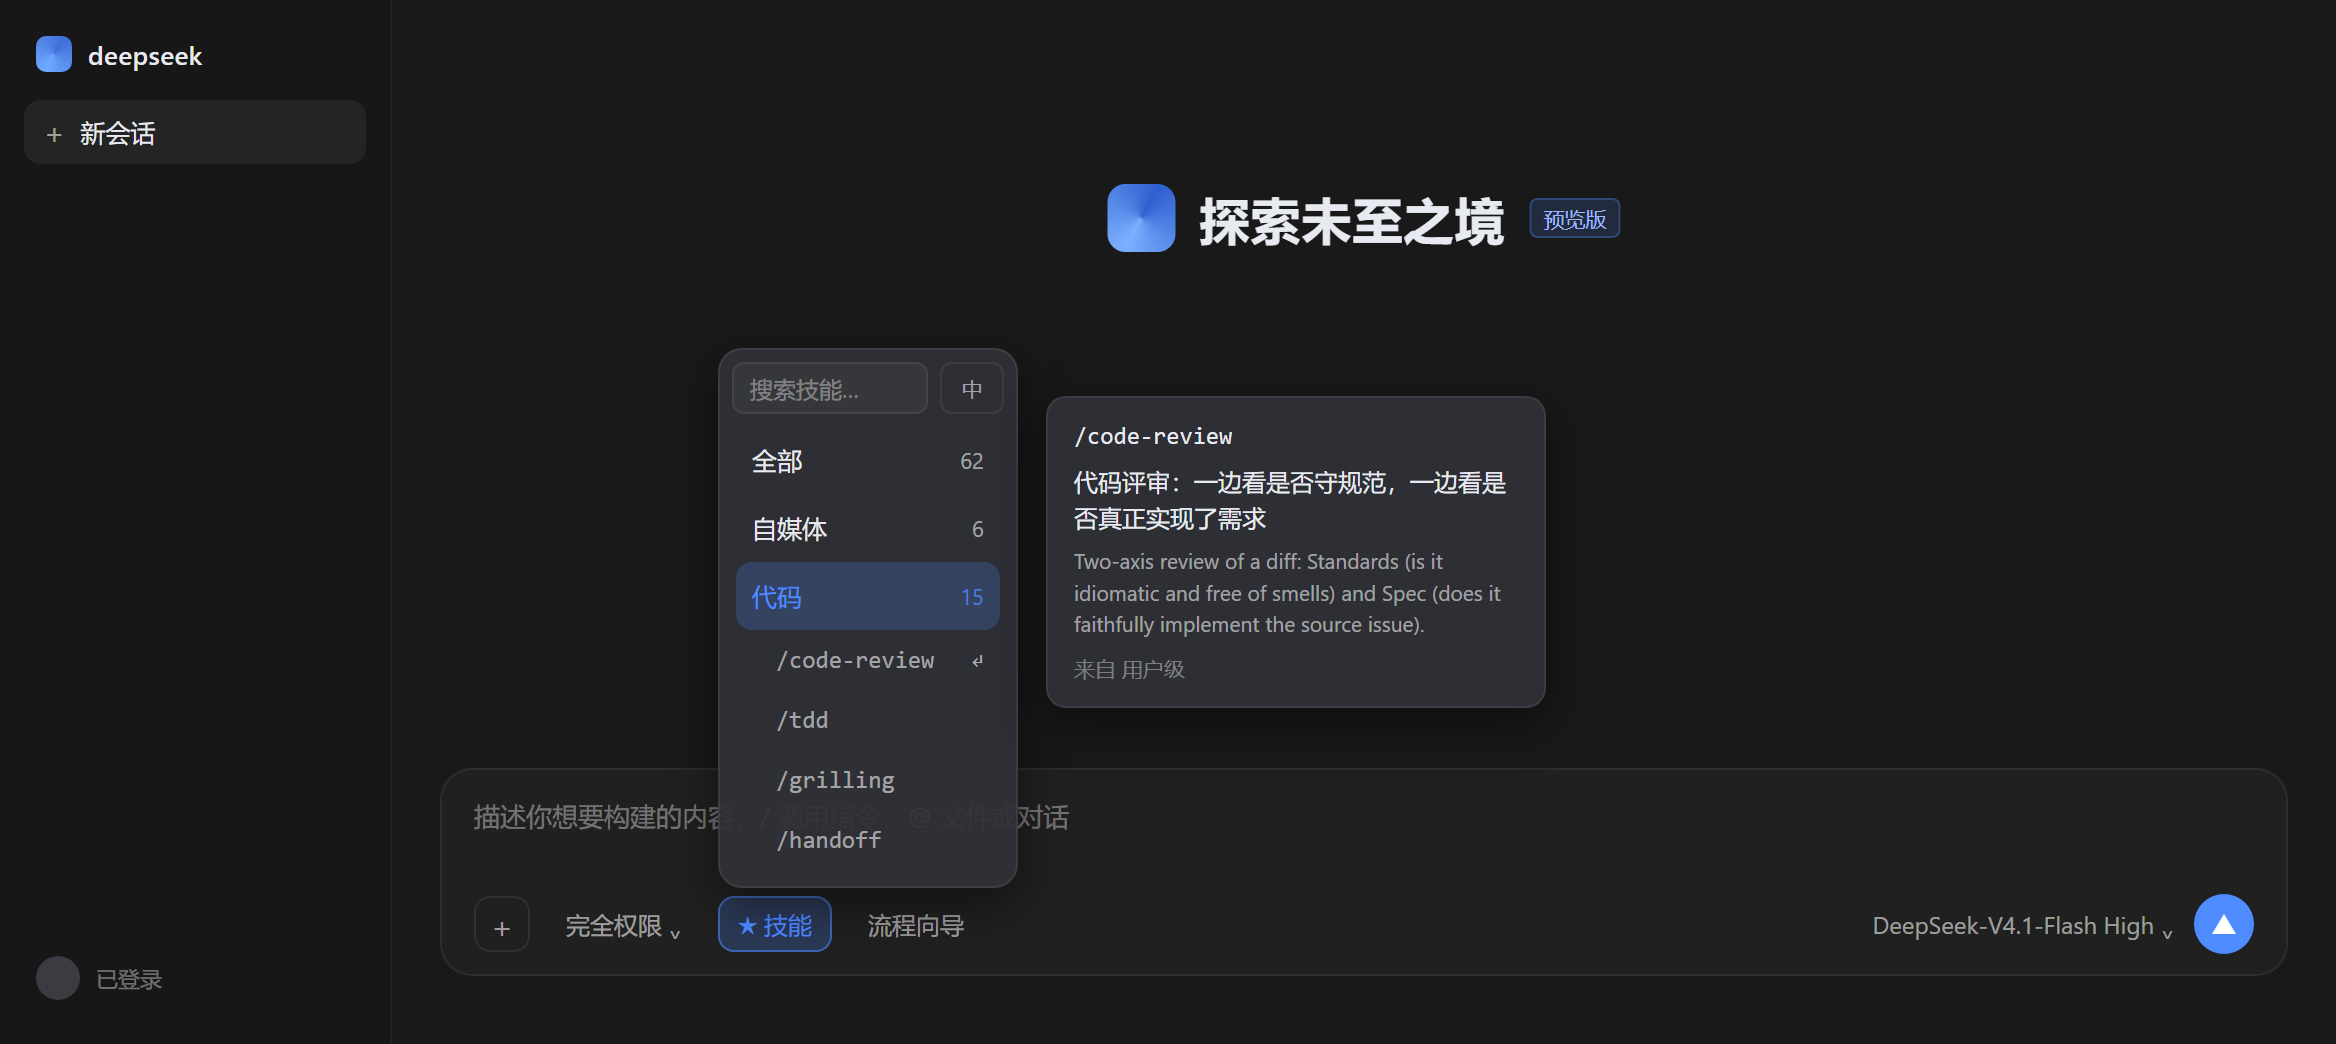
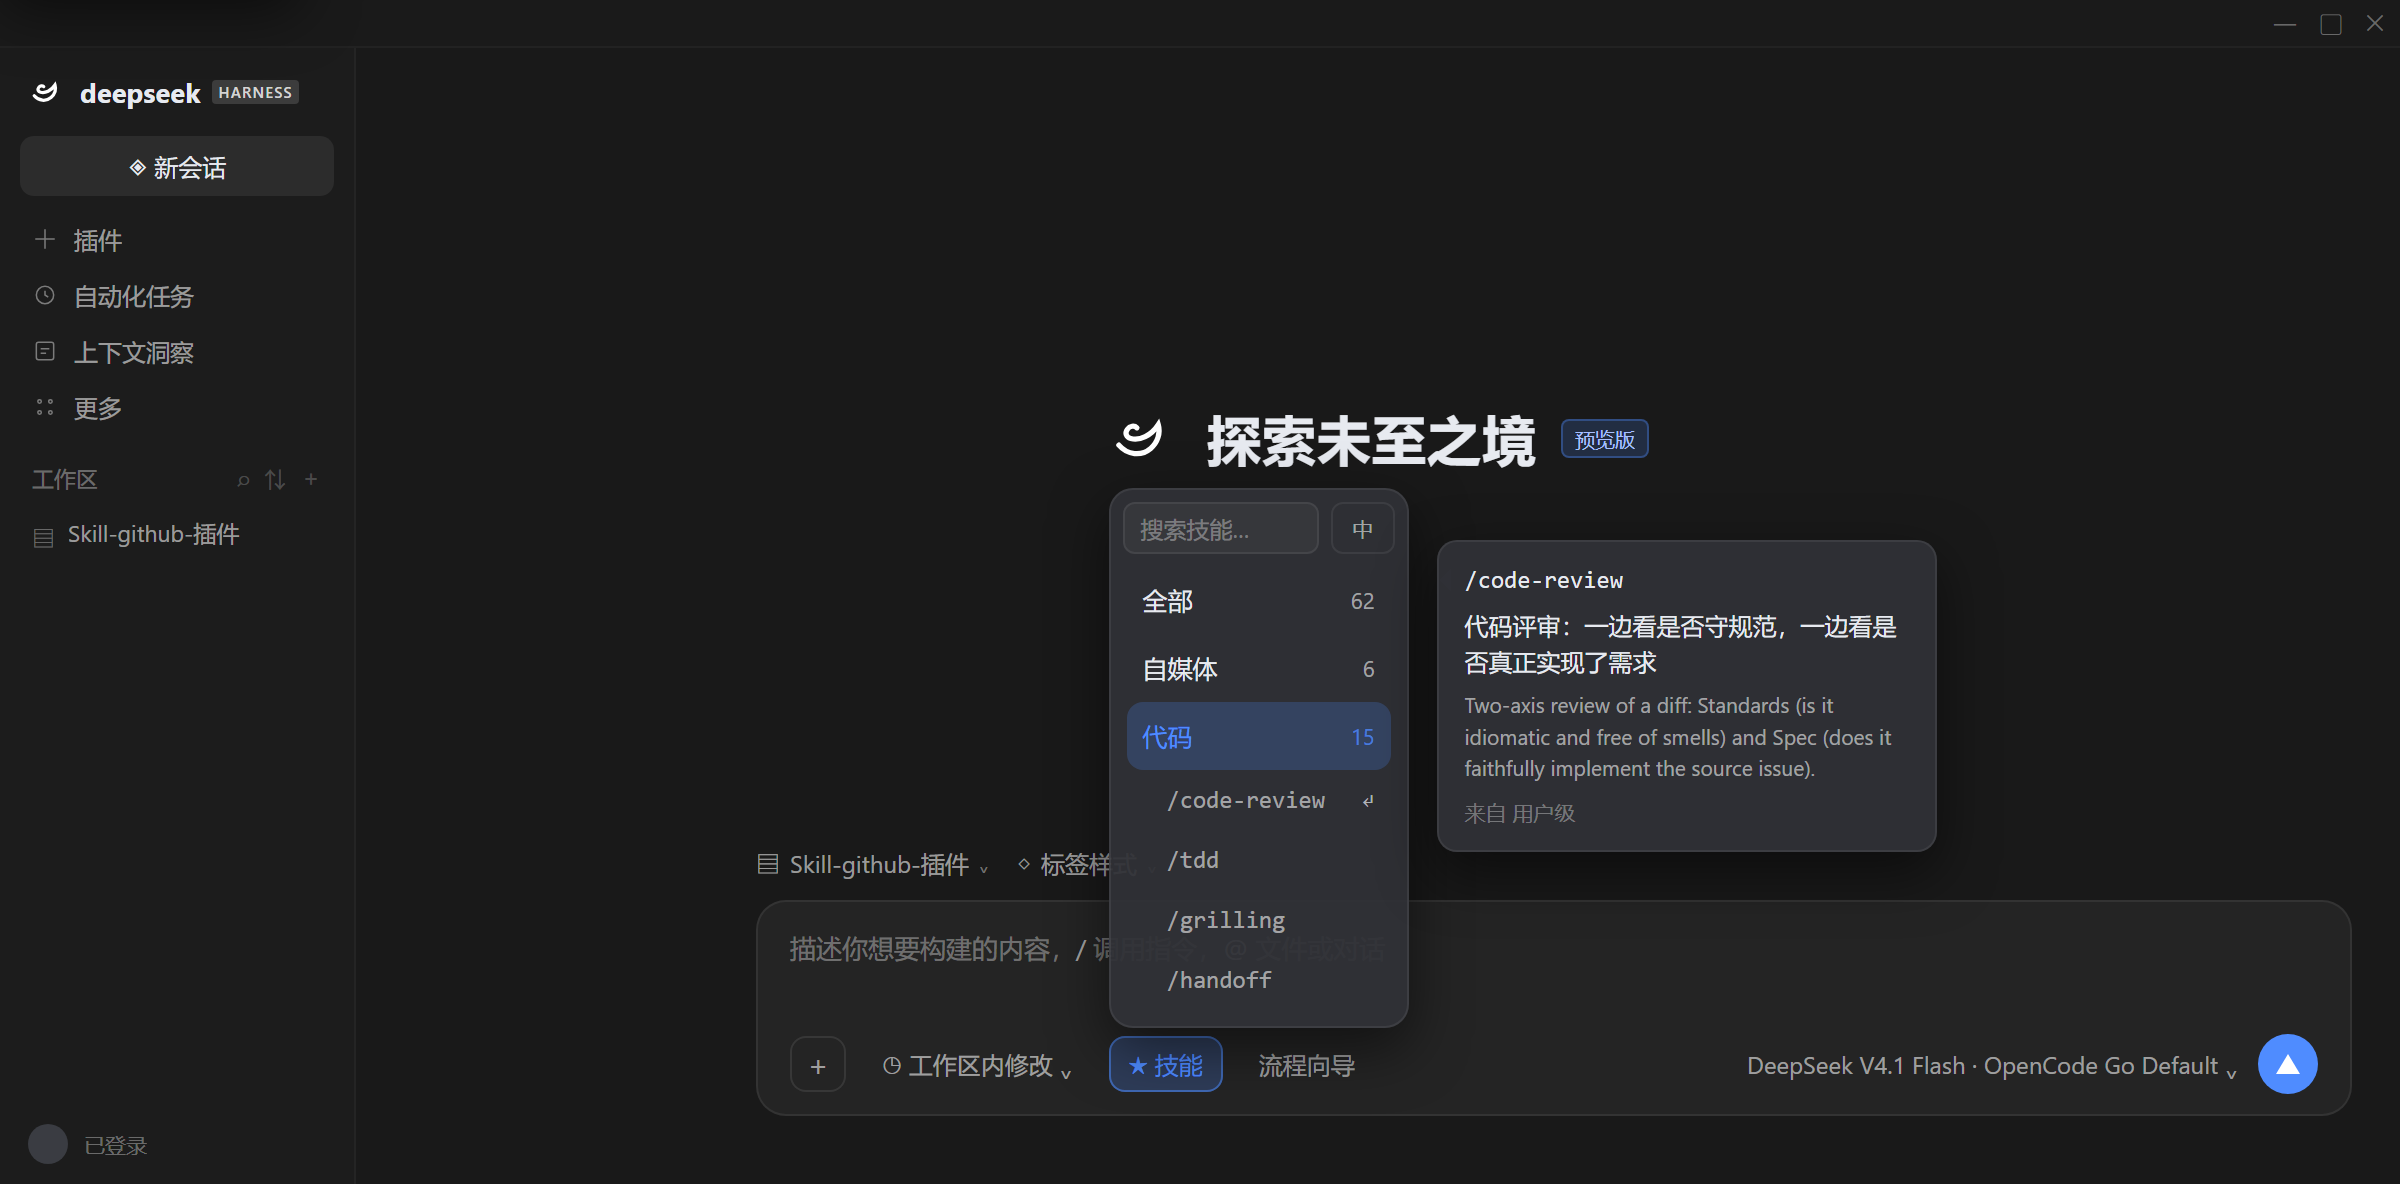
docs: redraw the overview in the real new-conversation layout, add trademark notice

diff --git a/README.md b/README.md
@@ -11,7 +11,7 @@ by name or description, and inserts `/name ` at the caret. No build step, MIT li
 
 ![抽屉展开](docs/screenshot-overview.png)
 
-<sub>示意图：抽屉挂在「技能」按钮上方 4px，左边对齐按钮；右侧是悬停出来的说明卡片。</sub>
+<sub>示意图：抽屉挂在「技能」按钮上方 4px、左边对齐按钮；右侧是悬停出来的说明卡片。</sub>
 
 ## 能做什么
 
@@ -105,12 +105,21 @@ node scripts/smoke.mjs      # 8 项自检：加载握手、注入声明、槽位
 
 ```
 client.js            浏览器端全部逻辑（无构建）
-index.js             宿主端：故意空转，不注入服务、不注册路由
+index.js             宿主端：只提供读取本机中文说明的接口
 cordis.patch.yml     插件装载声明
 locale/              插件元数据的中英文文案
 scripts/smoke.mjs    离线自检
 docs/                截图与开发规则
 ```
+
+## 声明
+
+Not affiliated with DeepSeek. This is an independent, community-built extension.
+"DeepSeek" and "DeepSeek Harness" belong to their respective owners; they appear here only
+to say which application this plugin is made for.
+
+本插件与深度求索公司无关，是社区独立开发的扩展。名称仅用于说明适用的宿主软件；
+README 中的界面示意图用于展示插件在宿主界面里的位置与用法。
 
 ## License
 
